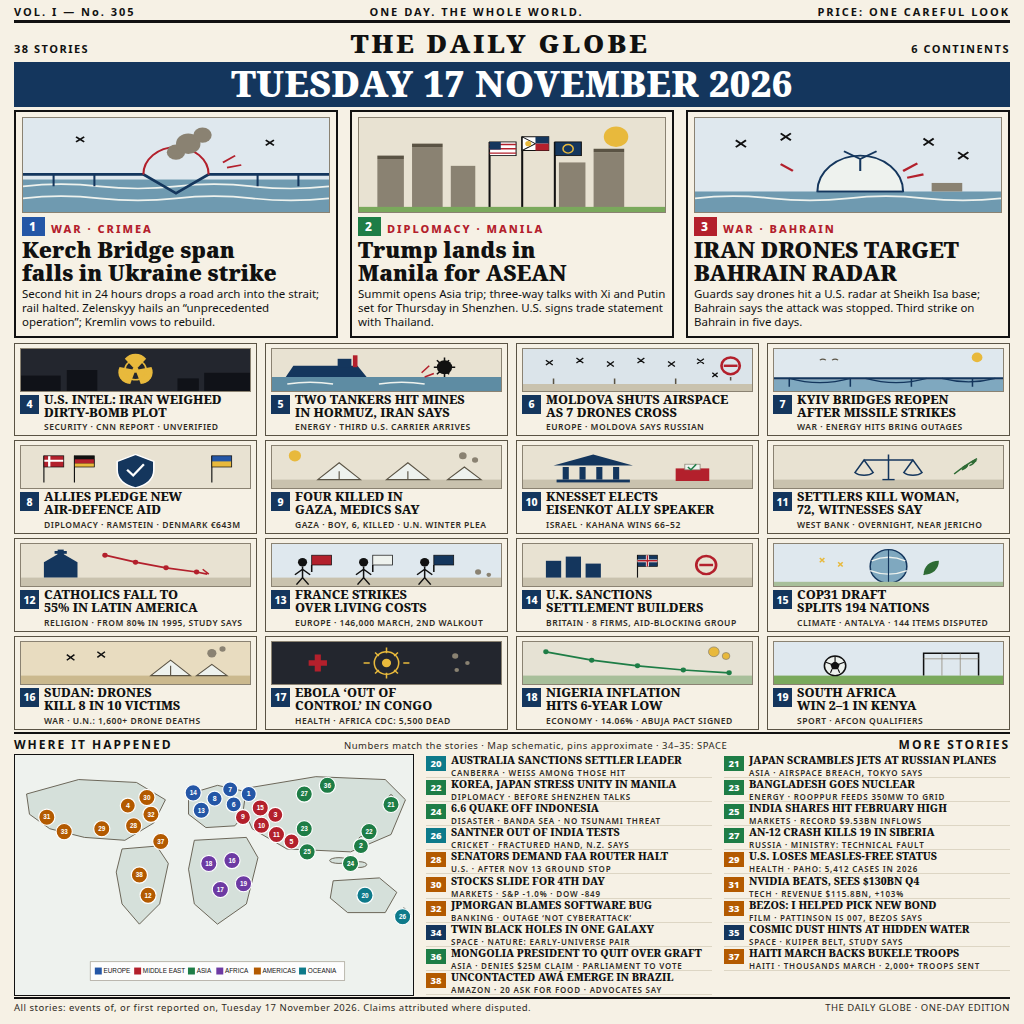
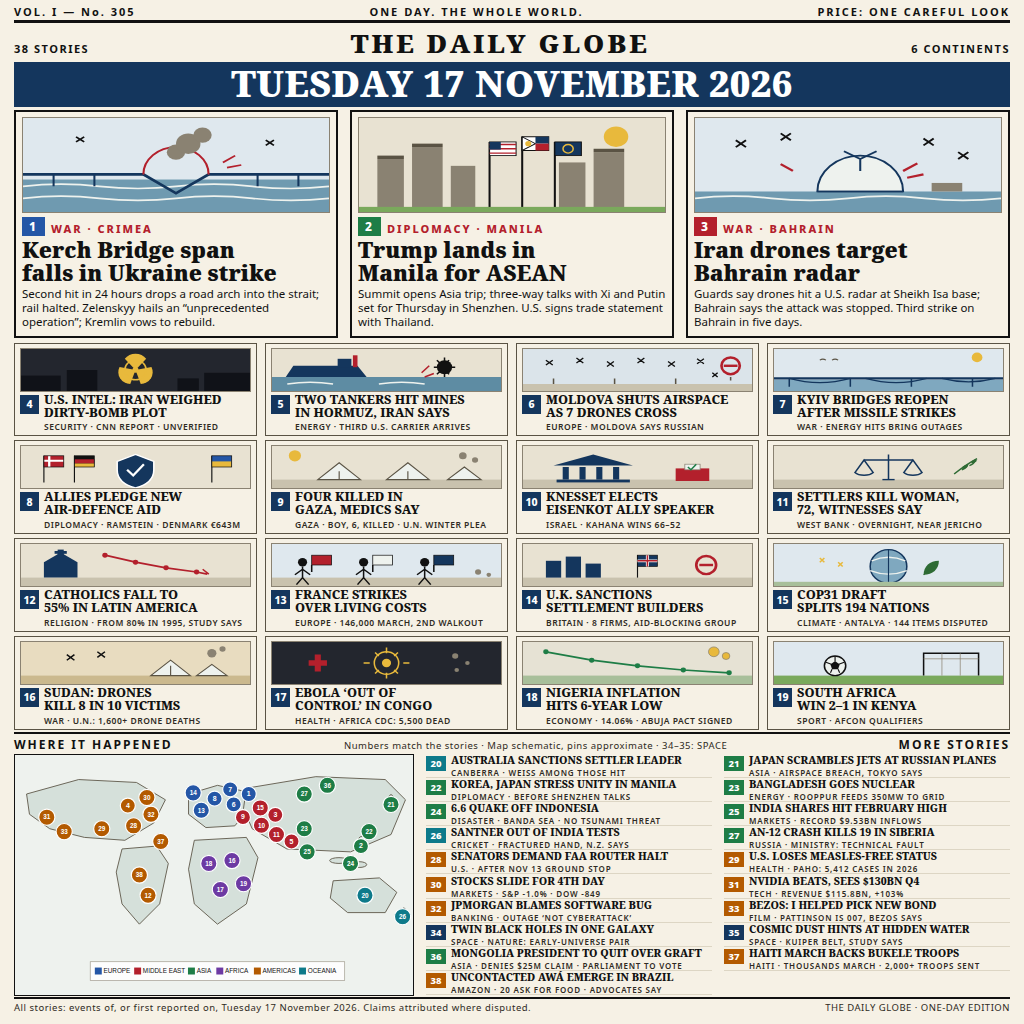
v5.3: feature 3 headline to serif sentence case, matching features 1-2

Changed region(s): [[0.6875, 0.2188, 0.9375, 0.2812]]

diff --git a/render.html b/render.html
@@ -67,7 +67,7 @@
   <div class="feats">
     <div class="feat"><svg class="featart" viewBox="0 0 300 110" preserveAspectRatio="none"><rect width="300" height="110" fill="#dfe8ee"/><rect y="72" width="300" height="38" fill="#6f9ab0"/><path d="M0 80q37-5 75 0t75 0t75 0t75 0" stroke="#eef2ee" stroke-width="2" fill="none"/><path d="M0 94q37-5 75 0t75 0t75 0t75 0" stroke="#eef2ee" stroke-width="2" fill="none"/><g stroke="#14365d" stroke-width="3"><path d="M0 66h118M182 66h118"/></g><g stroke="#14365d" stroke-width="2"><path d="M30 66v14M70 66v14M230 66v14M270 66v14"/></g><path d="M118 66l32 22 32-22" fill="none" stroke="#14365d" stroke-width="3"/><path d="M118 66a32 32 0 0 1 64 0" fill="none" stroke="#b3202c" stroke-width="2"/><g fill="#8a8272"><circle cx="150" cy="40" r="9"/><circle cx="162" cy="30" r="12"/><circle cx="176" cy="20" r="9"/></g><g stroke="#111" stroke-width="1.8"><path d="M52 22l8 6M60 22l-8 6M238 26l8 6M246 26l-8 6"/></g><path d="M196 52l12-8M200 58l14-3" stroke="#b3202c" stroke-width="2"/></svg><div class="kick"><span class="num eu">1</span>WAR &middot; CRIMEA</div><h2>Kerch Bridge span falls in Ukraine strike</h2><p>Second hit in 24 hours drops a road arch into the strait; rail halted. Zelenskyy hails an &ldquo;unprecedented operation&rdquo;; Kremlin vows to rebuild.</p></div>
     <div class="feat"><svg class="featart" viewBox="0 0 300 110" preserveAspectRatio="none"><rect width="300" height="110" fill="#e8e2d2"/><circle cx="252" cy="22" r="12" fill="#e8b93c"/><g fill="#8a8272"><rect x="18" y="48" width="26" height="62"/><rect x="52" y="34" width="30" height="76"/><rect x="90" y="56" width="24" height="54"/><rect x="196" y="52" width="26" height="58"/><rect x="230" y="40" width="30" height="70"/></g><g fill="#5a5344"><rect x="18" y="44" width="26" height="4"/><rect x="52" y="30" width="30" height="4"/><rect x="230" y="36" width="30" height="4"/></g><g stroke="#111" stroke-width="2"><path d="M128 110V28M160 110V22M192 110V28"/></g><g><rect x="128" y="28" width="26" height="16" fill="#fff" stroke="#111"/><path d="M128 31h26M128 36h26M128 41h26" stroke="#b3202c" stroke-width="1.5"/><rect x="128" y="28" width="11" height="9" fill="#14365d"/></g><g><path d="M160 22h26v16h-26z" fill="#fff" stroke="#111"/><path d="M160 22l13 8-13 8z" fill="#fff" stroke="#111"/><circle cx="166" cy="30" r="3" fill="#e8b93c"/><path d="M173 22h13v8h-13z" fill="#14365d"/><path d="M173 30h13v8h-13z" fill="#b3202c"/></g><g><rect x="192" y="28" width="26" height="16" fill="#14365d" stroke="#111"/><circle cx="205" cy="36" r="5" fill="none" stroke="#e8b93c" stroke-width="1.5"/></g><rect y="104" width="300" height="6" fill="#7aa95c"/></svg><div class="kick"><span class="num as">2</span>DIPLOMACY &middot; MANILA</div><h2>Trump lands in Manila for ASEAN</h2><p>Summit opens Asia trip; three-way talks with Xi and Putin set for Thursday in Shenzhen. U.S. signs trade statement with Thailand.</p></div>
-    <div class="feat"><svg class="featart" viewBox="0 0 300 110" preserveAspectRatio="none"><rect width="300" height="110" fill="#dfe8ee"/><rect y="86" width="300" height="24" fill="#6f9ab0"/><path d="M0 94q37-5 75 0t75 0t75 0t75 0" stroke="#eef2ee" stroke-width="2" fill="none"/><path d="M120 86a42 42 0 0 1 84 0z" fill="#eef2ee" stroke="#14365d" stroke-width="2"/><path d="M162 48v14M162 48l16-9M162 48l-16-9" stroke="#14365d" stroke-width="2"/><path d="M120 86h84" stroke="#14365d" stroke-width="2"/><g stroke="#111" stroke-width="2"><path d="M40 26l10 8M50 26l-10 8M84 18l10 8M94 18l-10 8M224 24l10 8M234 24l-10 8M258 40l10 8M268 40l-10 8"/></g><path d="M204 62l14-9M208 70l16-4" stroke="#b3202c" stroke-width="2.5"/><path d="M96 62l-12-8" stroke="#b3202c" stroke-width="2.5"/><rect x="232" y="76" width="30" height="10" fill="#8a8272"/></svg><div class="kick"><span class="num me">3</span>WAR &middot; BAHRAIN</div><h2>IRAN DRONES TARGET BAHRAIN RADAR</h2><p>Guards say drones hit a U.S. radar at Sheikh Isa base; Bahrain says the attack was stopped. Third strike on Bahrain in five days.</p></div>
+    <div class="feat"><svg class="featart" viewBox="0 0 300 110" preserveAspectRatio="none"><rect width="300" height="110" fill="#dfe8ee"/><rect y="86" width="300" height="24" fill="#6f9ab0"/><path d="M0 94q37-5 75 0t75 0t75 0t75 0" stroke="#eef2ee" stroke-width="2" fill="none"/><path d="M120 86a42 42 0 0 1 84 0z" fill="#eef2ee" stroke="#14365d" stroke-width="2"/><path d="M162 48v14M162 48l16-9M162 48l-16-9" stroke="#14365d" stroke-width="2"/><path d="M120 86h84" stroke="#14365d" stroke-width="2"/><g stroke="#111" stroke-width="2"><path d="M40 26l10 8M50 26l-10 8M84 18l10 8M94 18l-10 8M224 24l10 8M234 24l-10 8M258 40l10 8M268 40l-10 8"/></g><path d="M204 62l14-9M208 70l16-4" stroke="#b3202c" stroke-width="2.5"/><path d="M96 62l-12-8" stroke="#b3202c" stroke-width="2.5"/><rect x="232" y="76" width="30" height="10" fill="#8a8272"/></svg><div class="kick"><span class="num me">3</span>WAR &middot; BAHRAIN</div><h2>Iran drones target Bahrain radar</h2><p>Guards say drones hit a U.S. radar at Sheikh Isa base; Bahrain says the attack was stopped. Third strike on Bahrain in five days.</p></div>
   </div>
 
   <div class="cards">
